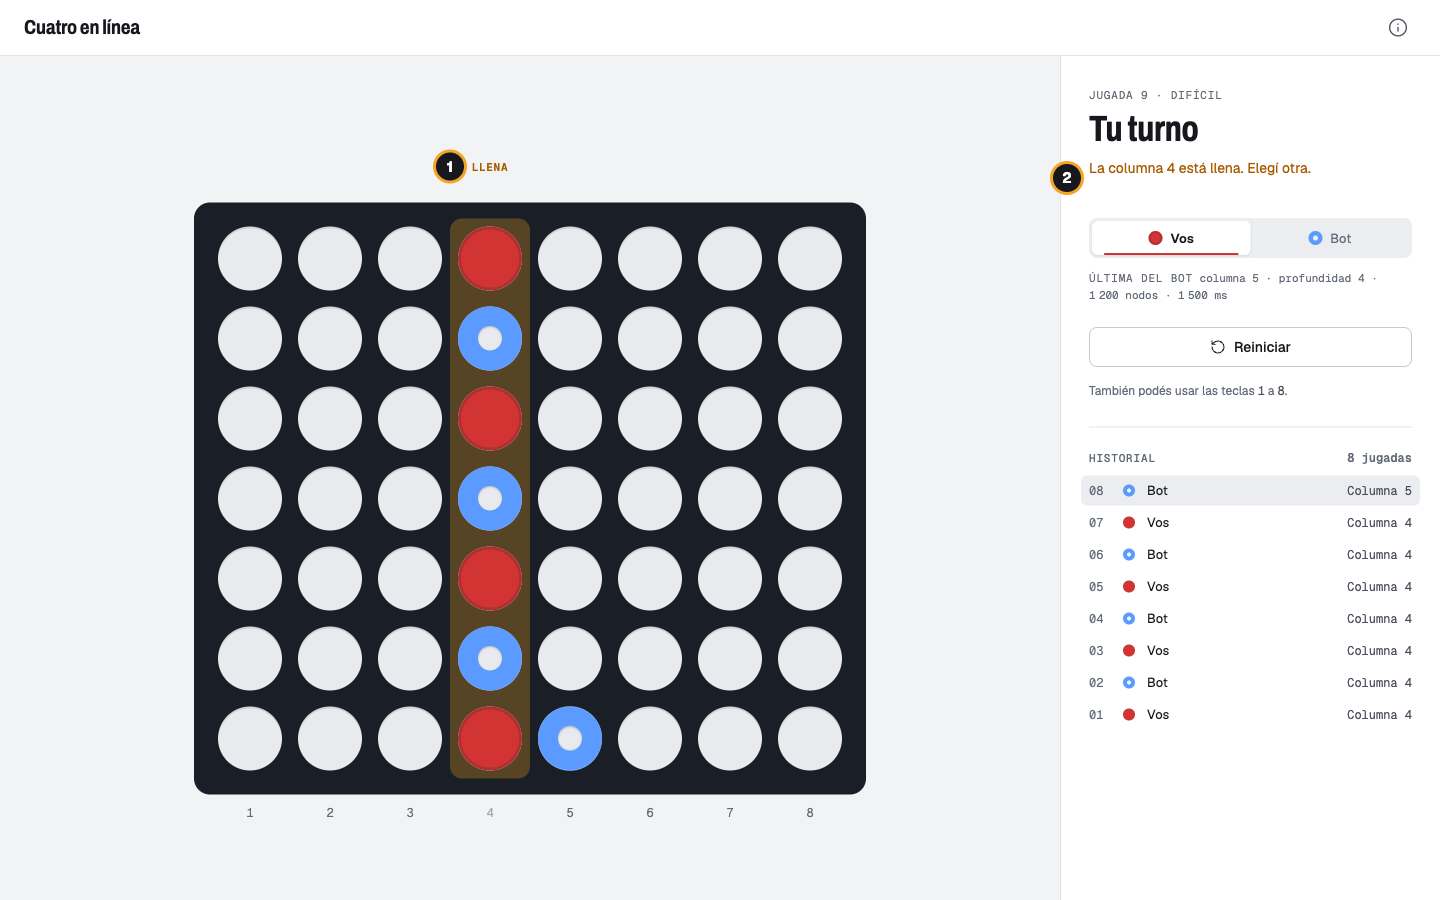
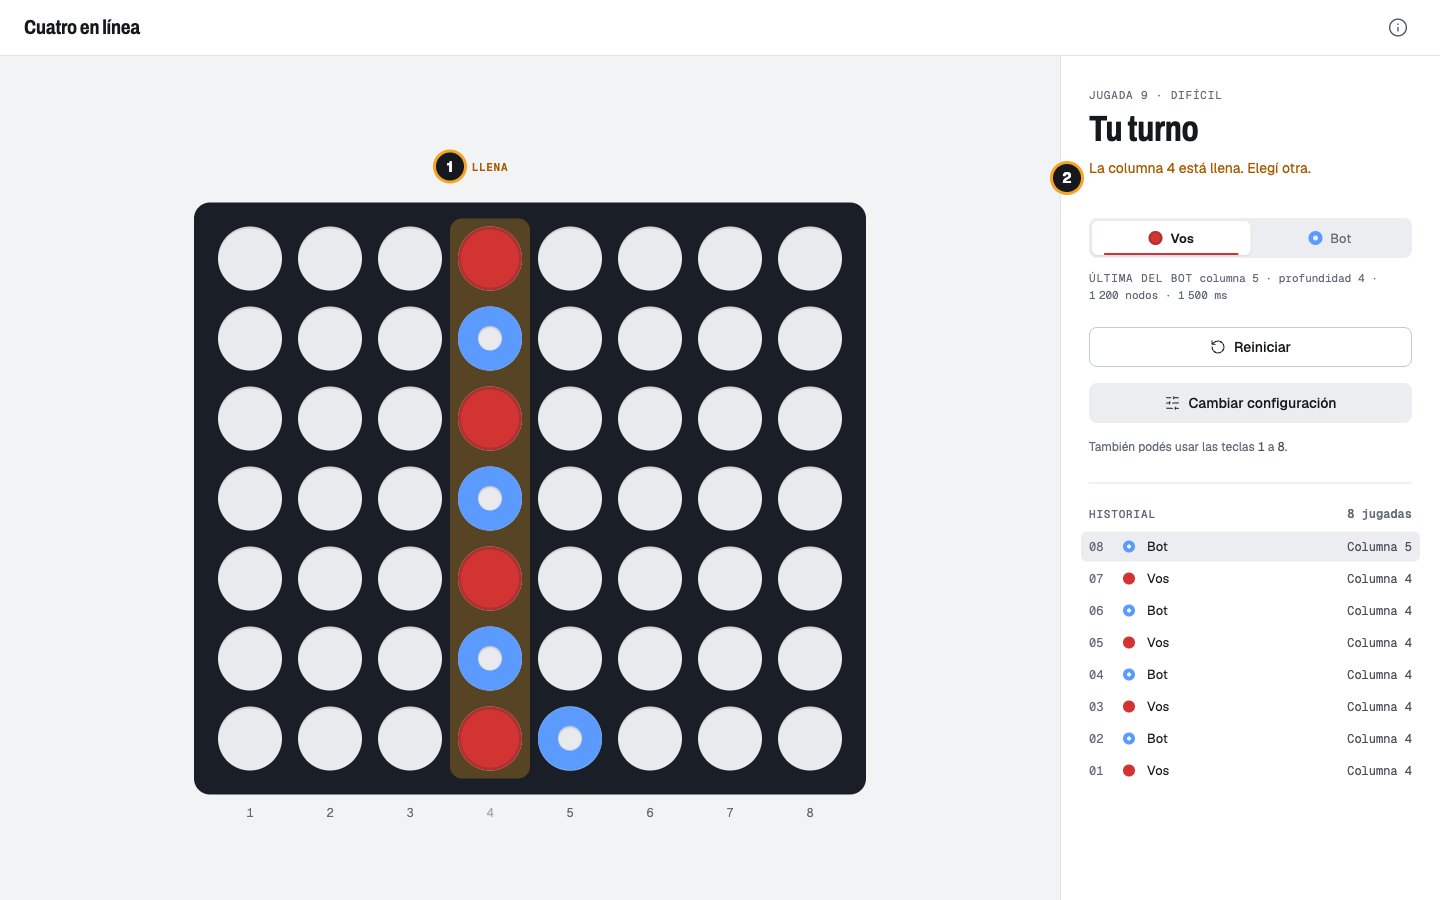
docs: actualiza capturas y textos del manual con el frontend actual
Delegado a la IA: regeneración de las 9 capturas con Playwright (botones terciarios, Cambiar configuración, Ver una partida del torneo, reproducción anotada; sin la etiqueta del bot simulado en los estados forzados) y ajuste de la numeración y los textos del manual, con una pregunta frecuente sobre la etiqueta. Verificado a mano: cada imagen existe, cada número coincide con su explicación y cada texto citado aparece en la app.

Changed region(s): [[0.75, 0.4667, 0.8125, 0.8711], [0.9375, 0.4978, 1.0, 0.8711], [0.8125, 0.4356, 0.9375, 0.4667]]

diff --git a/docs/MANUAL.md b/docs/MANUAL.md
@@ -37,7 +37,8 @@ Pedile a quien instaló la app la dirección para entrar y abrila en el navegado
    - **Normal:** mira 6 jugadas adelante. Se le puede ganar planificando.
    - **Difícil** (viene elegido): mira tan lejos como le da el tiempo y aprovecha cualquier error.
 3. **Empezar partida.** Arranca el juego. Si elegiste que abra el bot, primero lo vas a ver pensar y después aparece su ficha.
-4. **Cómo se juega.** Abre las reglas en cualquier momento (ver la sección 6).
+4. **Ver una partida del torneo.** Abre la reproducción de una partida que jugó el bot contra otro equipo (ver la sección 9).
+5. **Cómo se juega.** Abre las reglas en cualquier momento (ver la sección 6).
 
 ## 2. Tu turno
 
@@ -55,8 +56,8 @@ Qué significa cada cosa:
 3. **Ayuda.** Indica la columna y la fila donde caería tu ficha.
 4. **Última jugada del bot.** Dato informativo: en qué columna jugó, hasta cuántas jugadas adelante miró y cuánto tardó. No hace falta para jugar.
 5. **Reiniciar.** Empieza una partida nueva con la misma configuración.
-   Debajo, **Cambiar configuración** vuelve a la pantalla de inicio para elegir de nuevo quién empieza y la dificultad. Como la partida en curso se pierde, antes pregunta: **Seguir jugando** (o la tecla Esc) cancela y **Volver al inicio** confirma.
-6. **Historial.** Todas las jugadas, de la más reciente a la primera, con quién jugó y en qué columna.
+6. **Cambiar configuración.** Vuelve a la pantalla de inicio para elegir de nuevo quién empieza y la dificultad. Como la partida en curso se pierde, antes pregunta: **Seguir jugando** (o la tecla Esc) cancela y **Volver al inicio** confirma. Mientras el bot piensa, este botón espera a que responda.
+7. **Historial.** Todas las jugadas, de la más reciente a la primera, con quién jugó y en qué columna.
 
 ## 3. El bot está pensando
 
@@ -118,7 +119,7 @@ Si la app no puede comunicarse con el bot (por ejemplo, porque se cerró el prog
 
 1. Arriba del tablero aparece **Sin conexión con el bot** y el tablero se ve más apagado.
 2. La app vuelve a intentar sola cada 5 segundos y muestra la cuenta regresiva.
-3. **Reintentar** prueba en ese momento. **Reiniciar** empieza otra partida.
+3. **Reintentar** prueba en ese momento. **Reiniciar** empieza otra partida y **Cambiar configuración** vuelve al inicio.
 
 Tu última ficha se sigue viendo mientras tanto. Cuando vuelve la conexión, la app revisa si la jugada llegó al bot antes de reenviarla, así que nunca se juega dos veces.
 
@@ -152,6 +153,9 @@ Depende de la dificultad. En Fácil y Normal responde casi al instante. En Difí
 
 **¿Qué son los números de "Última del bot"?**
 Muestran cómo pensó el bot su última jugada: cuántas jugadas adelante miró ("profundidad"), cuántas posiciones revisó ("nodos") y cuánto tardó. Son informativos.
+
+**¿Qué significa la etiqueta "BOT SIMULADO (DEMO)" arriba?**
+Que la app está en un modo de prueba, con un bot que no razona ni corta la partida con cuatro en línea. Aparece solo si la dirección termina en `?scenario=…`. Para jugar contra el bot real, abrí la dirección sin esa parte.
 
 **¿Puedo jugar desde el teléfono?**
 Sí, si el teléfono está en la misma red que la computadora donde corre la app (ver "Cómo abrirla").
